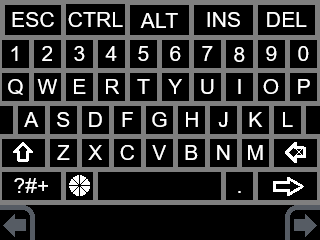
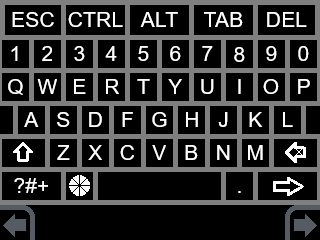
Fix imagemagick color conversion Move TAB to INS key Maks shift key consistend between keyboards Fix temp/lock screen updates for alt keyboard Update color scheme to be more "2010's Nintendo" Simplify special key state management. Update the software decoder to work with the new renderer. Move the s

diff --git a/src/input/n3ds/KeyboardTouchHandler.cpp b/src/input/n3ds/KeyboardTouchHandler.cpp
@@ -20,10 +20,12 @@
 #include "N3dsTouchscreenInput.hpp"
 #include "keyboard_alt_bgr.h"
 #include "keyboard_bgr.h"
-#include "keyboard_caps_bgr.h"
-#include "keyboard_shift_bgr.h"
+#include "keyboard_lock_bgr.h"
+#include "keyboard_temp_bgr.h"
 #include <Limelight.h>
 #include <cstring>
+
+const static int KEY_PX_SIZE = 3;
 
 KeyboardTouchHandler::KeyboardTouchHandler()
     : selected_keycodes(&default_keycodes) {
@@ -39,43 +41,70 @@ void KeyboardTouchHandler::set_screen(const uint8_t *bgr_buffer, int bgr_size) {
     gfxScreenSwapBuffers(GFX_BOTTOM, false);
 }
 
-void KeyboardTouchHandler::reset_shift_state() {
-    shift_active = false;
-    caps_active = false;
+// TODO: Add function to change a single key.
+// Changing the whole section doesn't work for the alt keyboard.
+void KeyboardTouchHandler::set_screen_key(KeyInfo &key_info) {
+    u8 *gfxbtmadr = gfxGetFramebuffer(GFX_BOTTOM, GFX_LEFT, NULL, NULL);
+
+    const uint8_t *bgr_buffer;
+    switch (key_info.state) {
+    case (KEY_TEMPORARY):
+        bgr_buffer = keyboard_temp_bgr;
+        break;
+    case (KEY_LOCKED):
+        bgr_buffer = keyboard_lock_bgr;
+        break;
+    default:
+        bgr_buffer = keyboard_bgr;
+        break;
+    }
+
+    for (int x = key_info.min_x; x < key_info.max_x; x++) {
+        int bgr_offset =
+            ((GSP_SCREEN_WIDTH * x) + (GSP_SCREEN_WIDTH - key_info.max_y)) *
+            KEY_PX_SIZE;
+        int bgr_size = (key_info.max_y - key_info.min_y) * KEY_PX_SIZE;
+        memcpy(gfxbtmadr + bgr_offset, bgr_buffer + bgr_offset, bgr_size);
+    }
+
+    gfxFlushBuffers();
+    gfxScreenSwapBuffers(GFX_BOTTOM, false);
 }
 
 void KeyboardTouchHandler::handle_default() {
     set_screen(keyboard_bgr, keyboard_bgr_size);
     selected_keycodes = &default_keycodes;
-    reset_shift_state();
+    alt_keyboard_active = false;
+    set_screen_key(shift_info);
+    set_screen_key(ctrl_info);
+    set_screen_key(alt_info);
 }
 
-void KeyboardTouchHandler::handle_shift() {
-    if (caps_active) {
-        handle_default();
-    } else if (shift_active) {
-        handle_caps();
-    } else {
-        set_screen(keyboard_shift_bgr, keyboard_shift_bgr_size);
-        shift_active = true;
+void KeyboardTouchHandler::cycle_key_state(KeyInfo &key_info) {
+    switch (key_info.state) {
+    case (KEY_TEMPORARY):
+        key_info.state = KEY_LOCKED;
+        break;
+    case (KEY_LOCKED):
+        key_info.state = KEY_DISABLED;
+        break;
+    default:
+        key_info.state = KEY_TEMPORARY;
+        break;
     }
+    set_screen_key(key_info);
 }
 
-void KeyboardTouchHandler::handle_caps() {
-    set_screen(keyboard_caps_bgr, keyboard_caps_bgr_size);
-    reset_shift_state();
-    caps_active = true;
-}
-
-void KeyboardTouchHandler::handle_alt() {
-    if (alt_active) {
+void KeyboardTouchHandler::handle_alt_keyboard() {
+    if (alt_keyboard_active) {
         handle_default();
-        alt_active = false;
     } else {
         set_screen(keyboard_alt_bgr, keyboard_alt_bgr_size);
         selected_keycodes = &alt_keycodes;
-        reset_shift_state();
-        alt_active = true;
+        alt_keyboard_active = true;
+        set_screen_key(shift_info);
+        set_screen_key(ctrl_info);
+        set_screen_key(alt_info);
     }
 }
 
@@ -98,22 +127,31 @@ keycode_info KeyboardTouchHandler::get_keycode(touchPosition touch) {
     return {-1, false};
 }
 
+int KeyboardTouchHandler::get_key_mod() {
+    int modifiers = 0;
+    modifiers |=
+        (shift_info.state != KEY_DISABLED || active_keycode.require_shift)
+            ? MODIFIER_SHIFT
+            : 0;
+    modifiers |= (ctrl_info.state != KEY_DISABLED) ? MODIFIER_CTRL : 0;
+    modifiers |= (alt_info.state != KEY_DISABLED) ? MODIFIER_ALT : 0;
+    return modifiers;
+}
+
 void KeyboardTouchHandler::_handle_touch_down(touchPosition touch) {
     active_keycode = get_keycode(touch);
     if (active_keycode.code == KEYBOARD_SWITCH_KC) {
-        handle_alt();
+        handle_alt_keyboard();
     } else if (active_keycode.code > KEYBOARD_SWITCH_KC) {
         if (active_keycode.code == SHIFT_KC) {
-            handle_shift();
-            active_keycode = {-1, false};
-        } else {
-            int modifiers =
-                (shift_active || caps_active || active_keycode.require_shift)
-                    ? MODIFIER_SHIFT
-                    : 0;
-            LiSendKeyboardEvent(active_keycode.code, KEY_ACTION_DOWN,
-                                modifiers);
+            cycle_key_state(shift_info);
+        } else if (active_keycode.code == CTRL_KC) {
+            cycle_key_state(ctrl_info);
+        } else if (active_keycode.code == ALT_KC) {
+            cycle_key_state(alt_info);
         }
+        int modifiers = get_key_mod();
+        LiSendKeyboardEvent(active_keycode.code, KEY_ACTION_DOWN, modifiers);
     }
 }
 
@@ -122,13 +160,23 @@ void KeyboardTouchHandler::_handle_touch_up(touchPosition touch) {
         return;
     }
 
-    int modifiers =
-        (shift_active || caps_active || active_keycode.require_shift)
-            ? MODIFIER_SHIFT
-            : 0;
+    int modifiers = get_key_mod();
     LiSendKeyboardEvent(active_keycode.code, KEY_ACTION_UP, modifiers);
-    if (shift_active) {
-        handle_default();
+
+    if (active_keycode.code != SHIFT_KC && active_keycode.code != CTRL_KC &&
+        active_keycode.code != ALT_KC) {
+        if (shift_info.state == KEY_TEMPORARY) {
+            shift_info.state = KEY_DISABLED;
+            set_screen_key(shift_info);
+        }
+        if (ctrl_info.state == KEY_TEMPORARY) {
+            ctrl_info.state = KEY_DISABLED;
+            set_screen_key(ctrl_info);
+        }
+        if (alt_info.state == KEY_TEMPORARY) {
+            alt_info.state = KEY_DISABLED;
+            set_screen_key(alt_info);
+        }
     }
     active_keycode = {-1, false};
 }

diff --git a/src/input/n3ds/keycode_map.hpp b/src/input/n3ds/keycode_map.hpp
@@ -93,12 +93,13 @@ struct keycode_info {
 
 const short KEYBOARD_SWITCH_KC = 0;
 const short SHIFT_KC = 0xA0;
-const short CAPS_KC = 0x14;
+const short CTRL_KC = 0xA2;
+const short ALT_KC = 0xA4;
 static std::map<int, keycode_info> default_keycodes{
     {0, {0x1B, false}},                // VK_ESCAPE
-    {1, {0xA2, false}},                // VK_CONTROL Left control
-    {2, {0xA4, false}},                // VK_ALT Left alt
-    {3, {0x2D, false}},                // VK_INSERT
+    {1, {CTRL_KC, false}},             // VK_CONTROL Left control
+    {2, {ALT_KC, false}},              // VK_ALT Left alt
+    {3, {0x09, false}},                // VK_TAB
     {4, {0x2E, false}},                // VK_DELETE
     {5, {0x31, false}},                // VK_1
     {6, {0x32, false}},                // VK_2
@@ -146,49 +147,49 @@ static std::map<int, keycode_info> default_keycodes{
 };
 
 static std::map<int, keycode_info> alt_keycodes{
-    {0, {0x1B, false}},  // VK_ESCAPE
-    {1, {0xA2, false}},  // VK_CONTROL Left control
-    {2, {0xA4, false}},  // VK_ALT Left alt
-    {3, {0x2D, false}},  // VK_INSERT
-    {4, {0x2E, false}},  // VK_DELETE
-    {5, {0x70, false}},  // VK_F1
-    {6, {0x71, false}},  // VK_F2
-    {7, {0x72, false}},  // VK_F3
-    {8, {0x73, false}},  // VK_F4
-    {9, {0x74, false}},  // VK_F5
-    {10, {0x75, false}}, // VK_F6
-    {11, {0x76, false}}, // VK_F7
-    {12, {0x77, false}}, // VK_F8
-    {13, {0x78, false}}, // VK_F9
-    {14, {0x79, false}}, // VK_F10
-    {15, {0x6A, false}}, // VK_KPASTERISK
-    {16, {0xC0, false}}, // VK_GRAVE Note: can be ` OR ~
-    {17, {0xDE, false}}, // VK_APOSTROPHE Note: can be ' OR "
-    {18, {0xDE, true}},  // VK_APOSTROPHE Note: can be ' OR "
-    {19, {0xBA, true}},  // VK_SEMICOLON Note: can be ; or :
-    {20, {0xBA, false}}, // VK_SEMICOLON Note: can be ; or :
-    {21, {0x36, true}},  // VK_6 Note: use shift to make this char?
-    {22, {0xBF, false}}, // VK_SLASH Note: can be / or ?
-    {23, {0xDC, false}}, // VK_BACK_SLASH Note: can be \ or |
-    {24, {0xDC, true}},  // VK_BACK_SLASH Note: can be \ or |
-    {25, {0xDB, false}}, // VK_BRACELEFT Note: can be [ or {
-    {26, {0xDD, false}}, // VK_BRACERIGHT Note: can be ] or }
-    {27, {0xDB, true}},  // VK_BRACELEFT Note: can be [ or {
-    {28, {0xDD, true}},  // VK_BRACERIGHT Note: can be ] or }
-    {29, {0xBC, true}},  // VK_OEM_102 Note: can be , or <
-    {30, {0xBE, true}},  // VK_OEM_102 Note: can be . or >
-    {31, {0x39, true}},  // VK_9 Note: can be 9 or (
-    {32, {0x30, true}},  // VK_0 Note: can be 0 or )
-    {33, {0xC0, true}},  // VK_GRAVE Note: can be ` OR ~
-    {34, {0x09, false}}, // VK_TAB
-    {35, {0x34, true}},  // VK_4 Note: can be 4 OR $
-    {36, {0xBF, true}},  // VK_SLASH Note: can be / or ?
-    {37, {0x31, true}},  // VK_1 Note: can be 1 OR !
-    {38, {0x37, true}},  // VK_7 Note: can be 7 OR &
-    {39, {0x32, true}},  // VK_2 Note: can be 2 OR @
-    {40, {0x33, true}},  // VK_3 Note: can be 3 or #
-    {41, {0x35, true}},  // VK_5 Note: can be 5 or %
-    {42, {0x08, false}}, // VK_BACK_SPACE
+    {0, {0x1B, false}},      // VK_ESCAPE
+    {1, {CTRL_KC, false}},   // VK_CONTROL Left control
+    {2, {ALT_KC, false}},    // VK_ALT Left alt
+    {3, {0x09, false}},      // VK_TAB
+    {4, {0x2E, false}},      // VK_DELETE
+    {5, {0x70, false}},      // VK_F1
+    {6, {0x71, false}},      // VK_F2
+    {7, {0x72, false}},      // VK_F3
+    {8, {0x73, false}},      // VK_F4
+    {9, {0x74, false}},      // VK_F5
+    {10, {0x75, false}},     // VK_F6
+    {11, {0x76, false}},     // VK_F7
+    {12, {0x77, false}},     // VK_F8
+    {13, {0x78, false}},     // VK_F9
+    {14, {0x79, false}},     // VK_F10
+    {15, {0x6A, false}},     // VK_KPASTERISK
+    {16, {0xC0, false}},     // VK_GRAVE Note: can be ` OR ~
+    {17, {0xDE, false}},     // VK_APOSTROPHE Note: can be ' OR "
+    {18, {0xDE, true}},      // VK_APOSTROPHE Note: can be ' OR "
+    {19, {0xBA, true}},      // VK_SEMICOLON Note: can be ; or :
+    {20, {0xBA, false}},     // VK_SEMICOLON Note: can be ; or :
+    {21, {0x36, true}},      // VK_6 Note: use shift to make this char?
+    {22, {0xBF, false}},     // VK_SLASH Note: can be / or ?
+    {23, {0xDC, false}},     // VK_BACK_SLASH Note: can be \ or |
+    {24, {0xDC, true}},      // VK_BACK_SLASH Note: can be \ or |
+    {25, {0xDB, false}},     // VK_BRACELEFT Note: can be [ or {
+    {26, {0xDD, false}},     // VK_BRACERIGHT Note: can be ] or }
+    {27, {0xDB, true}},      // VK_BRACELEFT Note: can be [ or {
+    {28, {0xDD, true}},      // VK_BRACERIGHT Note: can be ] or }
+    {29, {0xBC, true}},      // VK_OEM_102 Note: can be , or <
+    {30, {0xBE, true}},      // VK_OEM_102 Note: can be . or >
+    {31, {0x39, true}},      // VK_9 Note: can be 9 or (
+    {32, {0x30, true}},      // VK_0 Note: can be 0 or )
+    {33, {0xC0, true}},      // VK_GRAVE Note: can be ` OR ~
+    {34, {SHIFT_KC, false}}, // VK_SHIFT Left shift
+    {35, {0x34, true}},      // VK_4 Note: can be 4 OR $
+    {36, {0xBF, true}},      // VK_SLASH Note: can be / or ?
+    {37, {0x31, true}},      // VK_1 Note: can be 1 OR !
+    {38, {0x37, true}},      // VK_7 Note: can be 7 OR &
+    {39, {0x32, true}},      // VK_2 Note: can be 2 OR @
+    {40, {0x33, true}},      // VK_3 Note: can be 3 or #
+    {41, {0x35, true}},      // VK_5 Note: can be 5 or %
+    {42, {0x08, false}},     // VK_BACK_SPACE
     {43, {KEYBOARD_SWITCH_KC, false}}, // Special key -- keyboard switch
     {44, {0x5B, false}},               // KEY_LEFTMETA
     {45, {0x20, false}},               // VK_SPACE

diff --git a/src/input/n3ds/N3dsTouchscreenInput.hpp b/src/input/n3ds/N3dsTouchscreenInput.hpp
@@ -81,6 +81,15 @@ class MouseTouchHandler : public TouchHandlerBase {
     int previous_y = 0;
 };
 
+enum KeyState { KEY_DISABLED, KEY_TEMPORARY, KEY_LOCKED };
+struct KeyInfo {
+    KeyState state = KEY_DISABLED;
+    int min_x;
+    int max_x;
+    int min_y;
+    int max_y;
+};
+
 class KeyboardTouchHandler : public TouchHandlerBase {
   public:
     KeyboardTouchHandler();
@@ -90,19 +99,20 @@ class KeyboardTouchHandler : public TouchHandlerBase {
     void _handle_touch_up(touchPosition touch);
     void _handle_touch_hold(touchPosition touch);
 
-    void reset_shift_state();
     keycode_info get_keycode(touchPosition touch);
     void set_screen(const uint8_t *bgr_buffer, int bgr_size);
+    void set_screen_key(KeyInfo &key_info);
     void handle_default();
-    void handle_shift();
-    void handle_caps();
-    void handle_alt();
+    void cycle_key_state(KeyInfo &key_info);
+    void handle_alt_keyboard();
+    int get_key_mod();
 
   private:
     keycode_info active_keycode{-1, false};
-    bool alt_active = false;
-    bool shift_active = false;
-    bool caps_active = false;
+    KeyInfo shift_info = {KEY_DISABLED, 0, 48, 136, 169};
+    KeyInfo ctrl_info = {KEY_DISABLED, 64, 127, 0, 37};
+    KeyInfo alt_info = {KEY_DISABLED, 128, 192, 0, 37};
+    bool alt_keyboard_active = false;
     std::map<int, keycode_info> *selected_keycodes = nullptr;
 };
 

diff --git a/src/video/n3ds_video.cpp b/src/video/n3ds_video.cpp
@@ -141,7 +141,9 @@ static inline int write_yuv_to_framebuffer(const u8 **source, int width,
         goto y2ru_failed;
     }
 
-    status = Y2RU_SetReceiving(rgb_img_buffer, width * height * px_size, 8, 0);
+    status = Y2RU_SetReceiving(
+        rgb_img_buffer, MOON_CTR_VIDEO_TEX_W * MOON_CTR_VIDEO_TEX_H * px_size,
+        width * px_size, (MOON_CTR_VIDEO_TEX_W - width) * px_size);
     if (status) {
         fprintf(stderr, "Y2RU_SetReceiving failed\n");
         goto y2ru_failed;

diff --git a/src/video/n3ds/N3dsRendererBase.cpp b/src/video/n3ds/N3dsRendererBase.cpp
@@ -275,8 +275,8 @@ void N3dsRendererBase::write_px_to_framebuffer_gpu(uint8_t *__restrict source) {
                                     3);                                        \
     }
 
-    float sw = image_width / 1024.0f;
-    float sh = image_height / 512.0f;
+    float sw = image_width / ((float)MOON_CTR_VIDEO_TEX_W);
+    float sh = image_height / ((float)MOON_CTR_VIDEO_TEX_H);
 
     // float hw = 2.0f / surface_height;
     float hh = 2.0f / surface_width;
